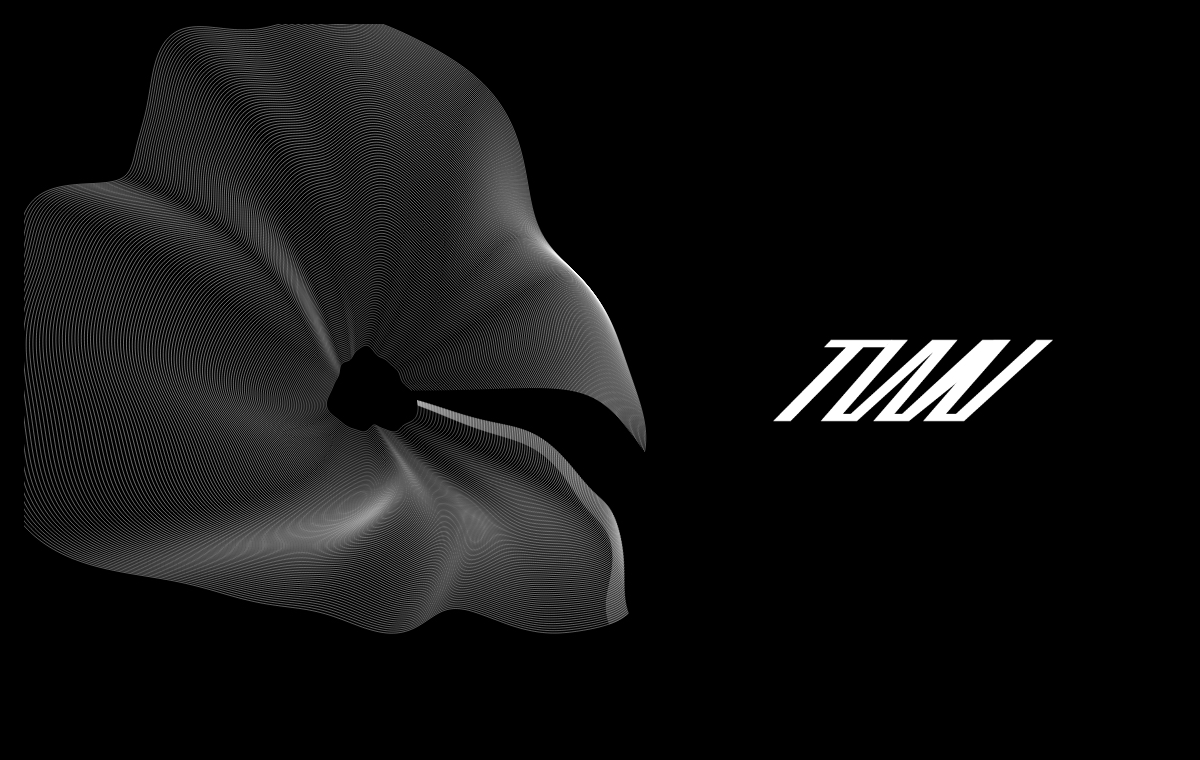
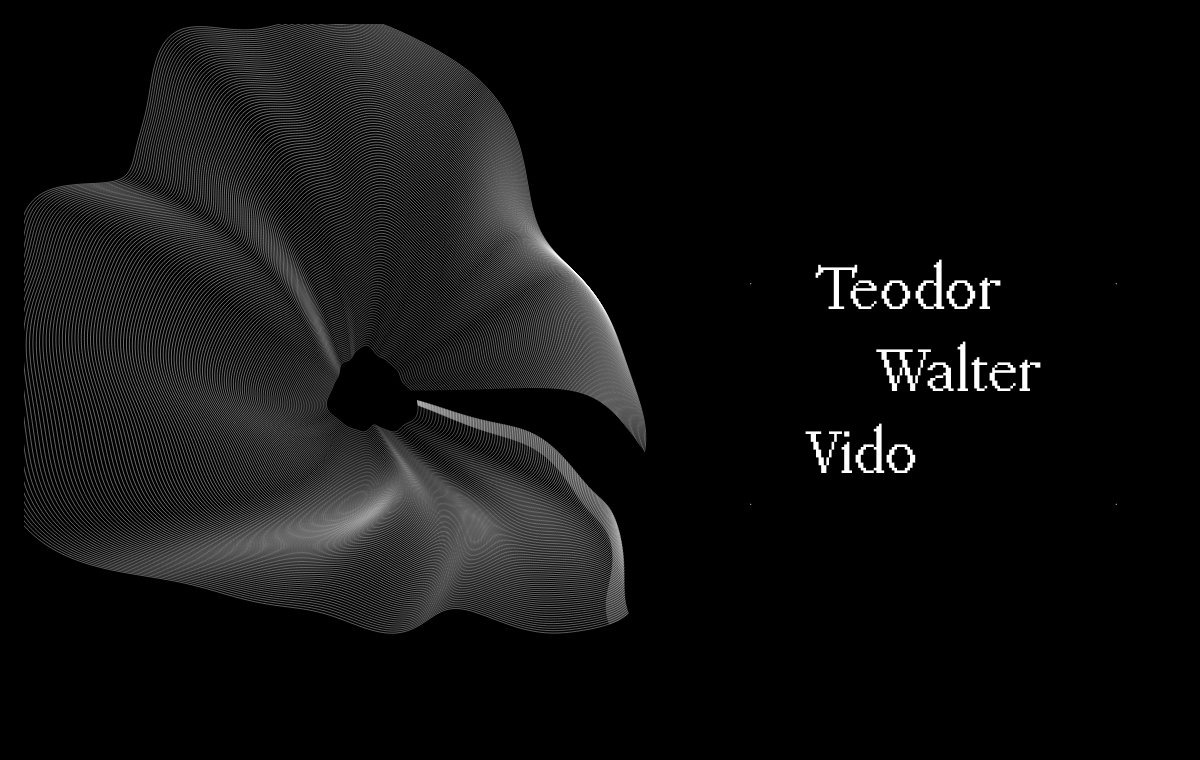
Update profile cover with supplied name artwork (#3)

Changed region(s): [[0.6475, 0.3329, 0.8942, 0.6355]]

diff --git a/README.md b/README.md
@@ -1,4 +1,4 @@
-![TWV — white contour artwork on black](./cover.jpg)
+![Teodor Walter Vido — white contour artwork on black](./cover.jpg)
 
 <p align="center">
   I build software and work with sound.
